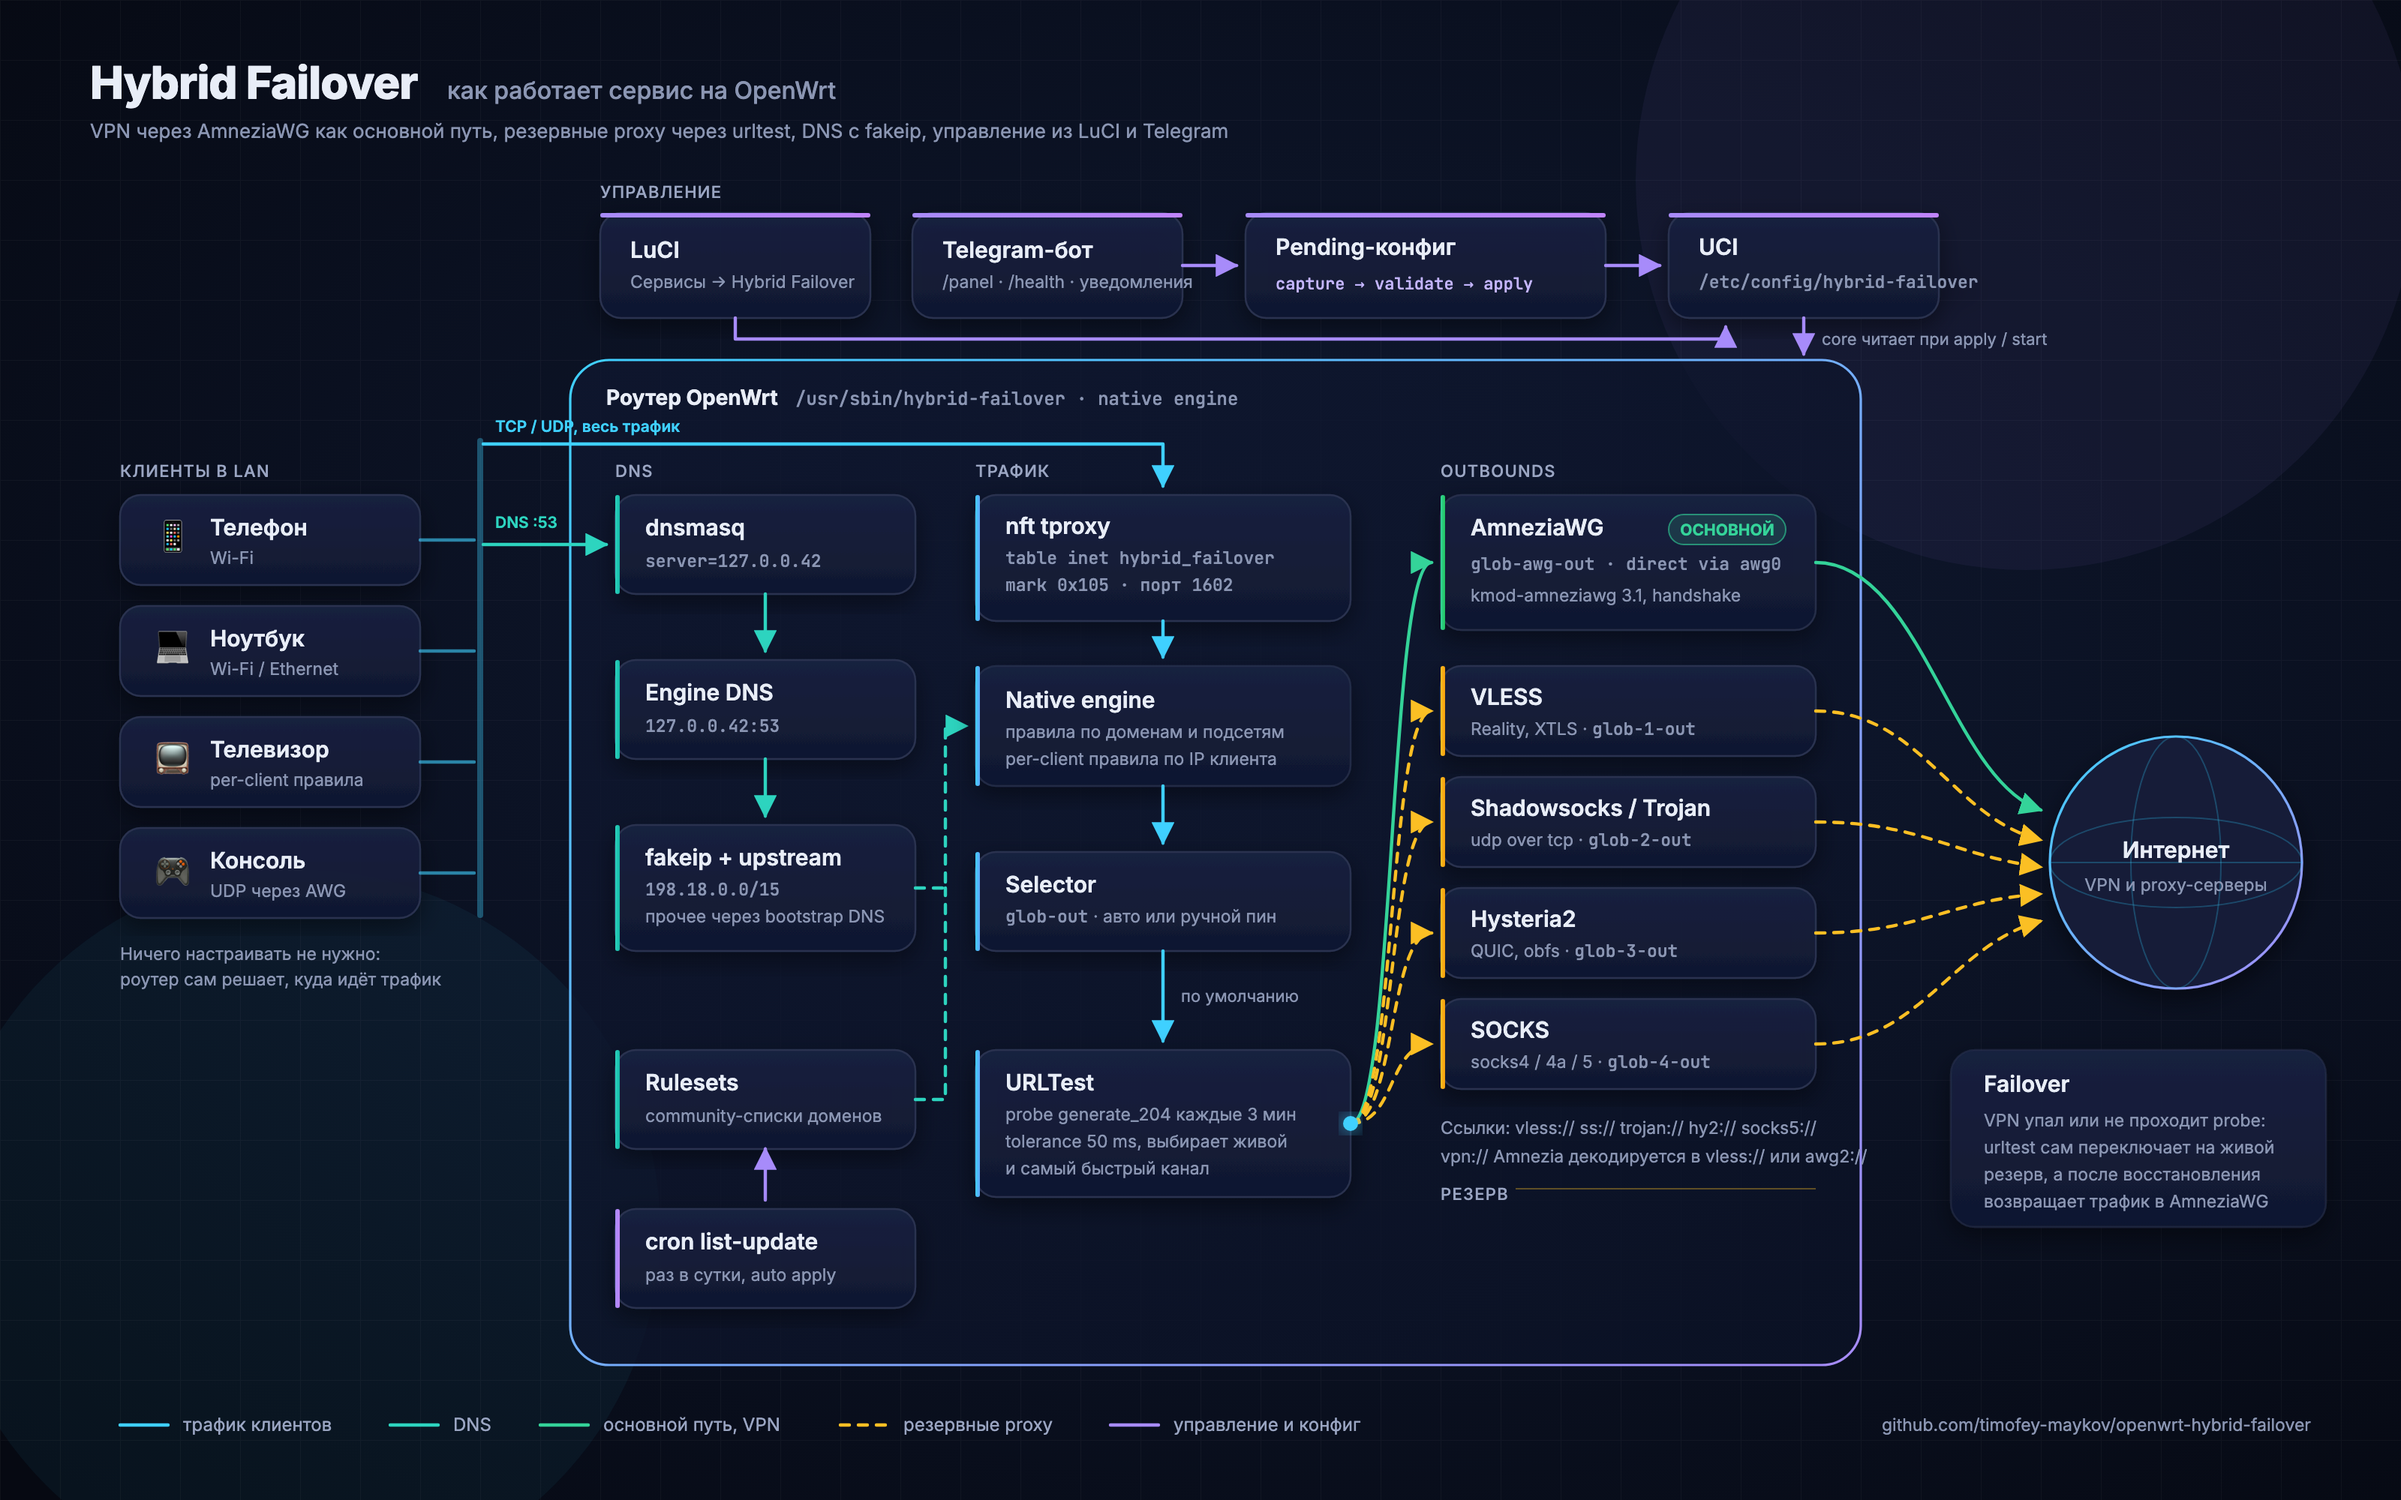
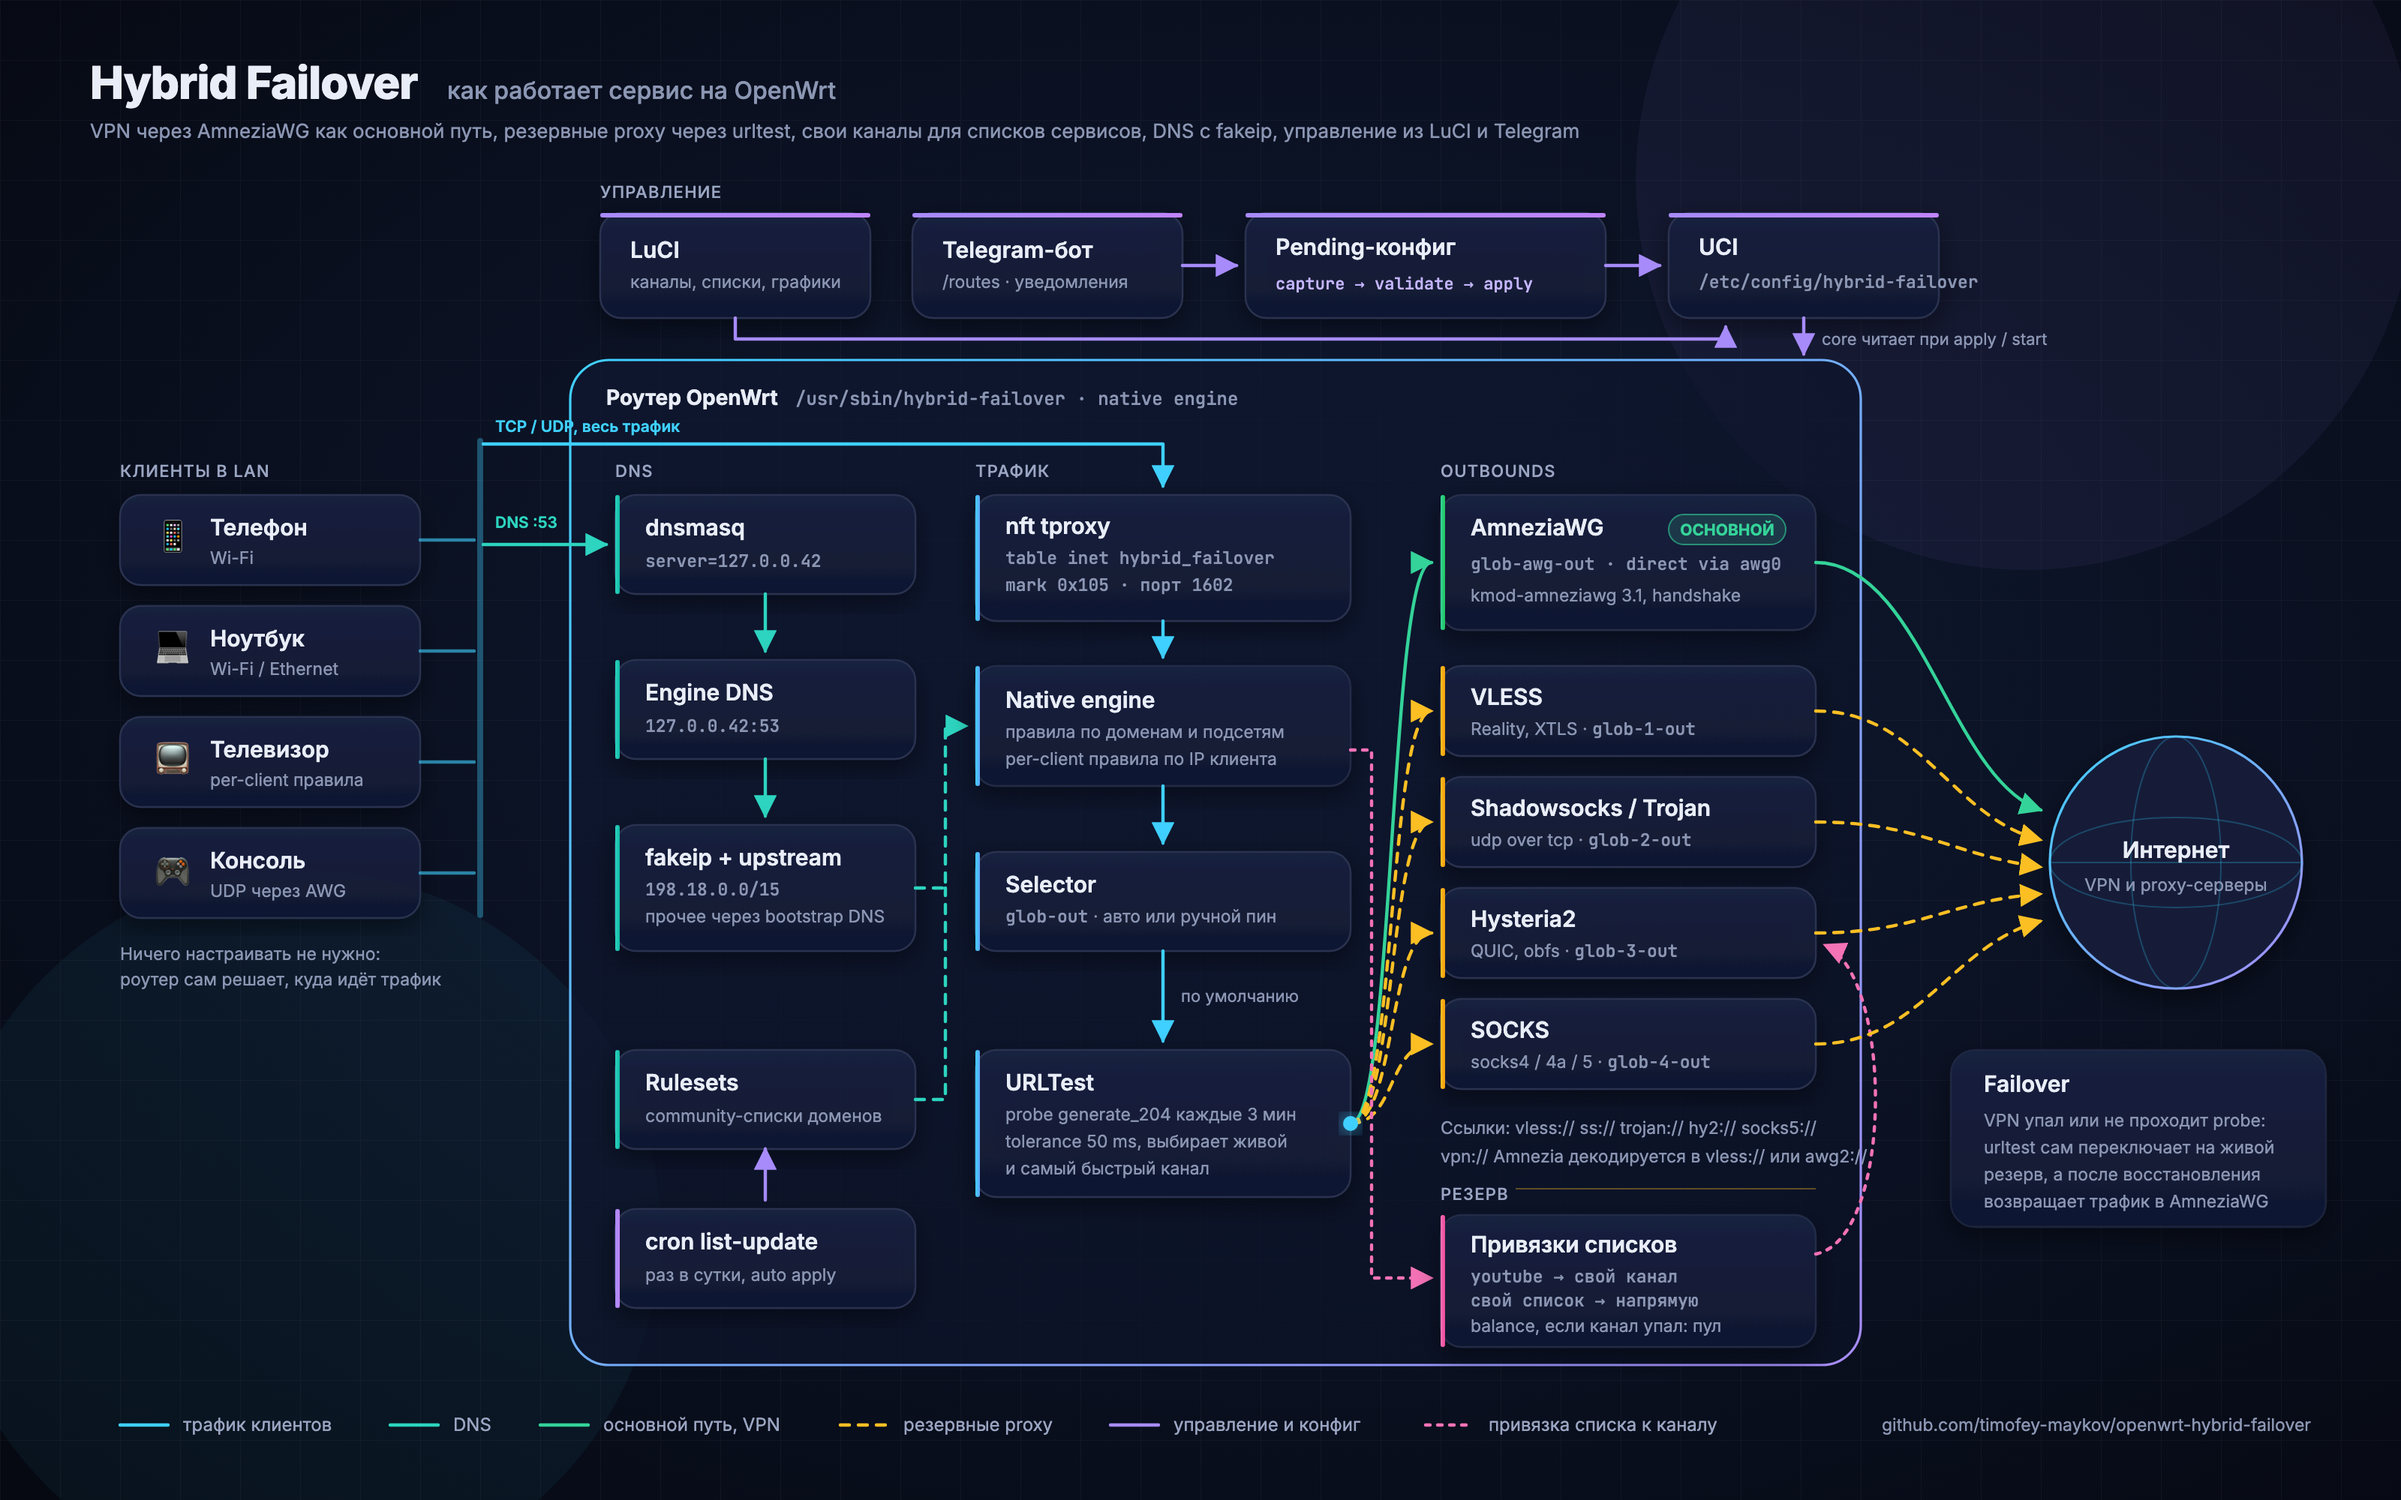
docs: list bindings on the schema
The diagram now shows the list bindings next to the outbounds, LuCI with channels, lists and charts, and /routes in the bot.

diff --git a/docs/img/hybrid-failover-schema.html b/docs/img/hybrid-failover-schema.html
@@ -21,6 +21,7 @@
   .dns{stroke:#2dd4bf;}
   .vpn{stroke:#34d399;}
   .bak{stroke:#fbbf24;}
+  .bind{stroke:#f472b6;stroke-dasharray:3 5;}
   .dash{stroke-dasharray:6 6;}
 </style>
 </head>
@@ -59,6 +60,9 @@
     <linearGradient id="teal" x1="0" y1="0" x2="1" y2="0">
       <stop offset="0" stop-color="#2dd4bf"/><stop offset="1" stop-color="#14b8a6"/>
     </linearGradient>
+    <linearGradient id="pink" x1="0" y1="0" x2="1" y2="0">
+      <stop offset="0" stop-color="#f472b6"/><stop offset="1" stop-color="#ec4899"/>
+    </linearGradient>
     <filter id="glow" x="-30%" y="-30%" width="160%" height="160%">
       <feGaussianBlur stdDeviation="6" result="b"/>
       <feMerge><feMergeNode in="b"/><feMergeNode in="SourceGraphic"/></feMerge>
@@ -70,6 +74,7 @@
     <marker id="aCtl" viewBox="0 0 10 10" refX="9" refY="5" markerWidth="7" markerHeight="7" orient="auto-start-reverse"><path d="M0 0L10 5L0 10z" fill="#a78bfa"/></marker>
     <marker id="aDns" viewBox="0 0 10 10" refX="9" refY="5" markerWidth="7" markerHeight="7" orient="auto-start-reverse"><path d="M0 0L10 5L0 10z" fill="#2dd4bf"/></marker>
     <marker id="aVpn" viewBox="0 0 10 10" refX="9" refY="5" markerWidth="7" markerHeight="7" orient="auto-start-reverse"><path d="M0 0L10 5L0 10z" fill="#34d399"/></marker>
+    <marker id="aBind" viewBox="0 0 10 10" refX="9" refY="5" markerWidth="7" markerHeight="7" orient="auto-start-reverse"><path d="M0 0L10 5L0 10z" fill="#f472b6"/></marker>
     <marker id="aBak" viewBox="0 0 10 10" refX="9" refY="5" markerWidth="7" markerHeight="7" orient="auto-start-reverse"><path d="M0 0L10 5L0 10z" fill="#fbbf24"/></marker>
     <pattern id="grid" width="40" height="40" patternUnits="userSpaceOnUse">
       <path d="M40 0H0V40" fill="none" stroke="#ffffff" stroke-opacity="0.035" stroke-width="1"/>
@@ -85,7 +90,7 @@
   <!-- title -->
   <text x="60" y="66" class="t" font-size="30" font-weight="800" letter-spacing="-0.5">Hybrid Failover</text>
   <text x="298" y="66" class="s" font-size="16" font-weight="500">как работает сервис на OpenWrt</text>
-  <text x="60" y="92" class="s" font-size="13">VPN через AmneziaWG как основной путь, резервные proxy через urltest, DNS с fakeip, управление из LuCI и Telegram</text>
+  <text x="60" y="92" class="s" font-size="13">VPN через AmneziaWG как основной путь, резервные proxy через urltest, свои каналы для списков сервисов, DNS с fakeip, управление из LuCI и Telegram</text>
 
   <!-- ===================== CONTROL PLANE ===================== -->
   <text x="400" y="132" class="lbl">Управление</text>
@@ -94,13 +99,13 @@
     <rect x="400" y="142" width="180" height="70" rx="14" class="card"/>
     <rect x="400" y="142" width="180" height="3" rx="1.5" fill="url(#violet)"/>
     <text x="420" y="172" class="cardT">LuCI</text>
-    <text x="420" y="192" class="cardS">Сервисы → Hybrid Failover</text>
+    <text x="420" y="192" class="cardS">каналы, списки, графики</text>
   </g>
   <g filter="url(#soft)">
     <rect x="608" y="142" width="180" height="70" rx="14" class="card"/>
     <rect x="608" y="142" width="180" height="3" rx="1.5" fill="url(#violet)"/>
     <text x="628" y="172" class="cardT">Telegram-бот</text>
-    <text x="628" y="192" class="cardS">/panel · /health · уведомления</text>
+    <text x="628" y="192" class="cardS">/routes · уведомления</text>
   </g>
 
   <!-- pending pill -->
@@ -265,6 +270,19 @@
   <path d="M900 749 C 930 749, 925 696, 954 696" class="flow bak dash" marker-end="url(#aBak)"/>
   <circle cx="900" cy="749" r="5" fill="#3fd0ff" filter="url(#glow)"/>
 
+
+  <!-- list bindings -->
+  <path d="M900 500 H914 V852 H954" class="flow bind" marker-end="url(#aBind)"/>
+  <g filter="url(#soft)">
+    <rect x="960" y="810" width="250" height="88" rx="14" class="card" stroke="#f472b6" stroke-opacity="0.7"/>
+    <rect x="960" y="810" width="3" height="88" rx="1.5" fill="url(#pink)"/>
+    <text x="980" y="835" class="cardT">Привязки списков</text>
+    <text x="980" y="855" class="cardS mono" font-size="11">youtube → свой канал</text>
+    <text x="980" y="871" class="cardS mono" font-size="11">свой список → напрямую</text>
+    <text x="980" y="888" class="cardS" font-size="10.5">balance, если канал упал: пул</text>
+  </g>
+  <path d="M1210 836 C 1262 826, 1262 650, 1216 630" class="flow bind" marker-end="url(#aBind)"/>
+
   <!-- ===================== LAN CLIENTS ===================== -->
   <text x="80" y="318" class="lbl">Клиенты в LAN</text>
   <g filter="url(#soft)">
@@ -338,6 +356,7 @@
     <line x1="360" y1="950" x2="392" y2="950" class="flow vpn"/><text x="402" y="954">основной путь, VPN</text>
     <line x1="560" y1="950" x2="592" y2="950" class="flow bak dash"/><text x="602" y="954">резервные proxy</text>
     <line x1="740" y1="950" x2="772" y2="950" class="flow ctl"/><text x="782" y="954">управление и конфиг</text>
+    <line x1="950" y1="950" x2="982" y2="950" class="flow bind"/><text x="992" y="954">привязка списка к каналу</text>
   </g>
   <text x="1540" y="954" class="s" font-size="11.5" text-anchor="end">github.com/timofey-maykov/openwrt-hybrid-failover</text>
 </svg>

diff --git a/docs/img/hybrid-failover-schema.en.html b/docs/img/hybrid-failover-schema.en.html
@@ -21,6 +21,7 @@
   .dns{stroke:#2dd4bf;}
   .vpn{stroke:#34d399;}
   .bak{stroke:#fbbf24;}
+  .bind{stroke:#f472b6;stroke-dasharray:3 5;}
   .dash{stroke-dasharray:6 6;}
 </style>
 </head>
@@ -59,6 +60,9 @@
     <linearGradient id="teal" x1="0" y1="0" x2="1" y2="0">
       <stop offset="0" stop-color="#2dd4bf"/><stop offset="1" stop-color="#14b8a6"/>
     </linearGradient>
+    <linearGradient id="pink" x1="0" y1="0" x2="1" y2="0">
+      <stop offset="0" stop-color="#f472b6"/><stop offset="1" stop-color="#ec4899"/>
+    </linearGradient>
     <filter id="glow" x="-30%" y="-30%" width="160%" height="160%">
       <feGaussianBlur stdDeviation="6" result="b"/>
       <feMerge><feMergeNode in="b"/><feMergeNode in="SourceGraphic"/></feMerge>
@@ -70,6 +74,7 @@
     <marker id="aCtl" viewBox="0 0 10 10" refX="9" refY="5" markerWidth="7" markerHeight="7" orient="auto-start-reverse"><path d="M0 0L10 5L0 10z" fill="#a78bfa"/></marker>
     <marker id="aDns" viewBox="0 0 10 10" refX="9" refY="5" markerWidth="7" markerHeight="7" orient="auto-start-reverse"><path d="M0 0L10 5L0 10z" fill="#2dd4bf"/></marker>
     <marker id="aVpn" viewBox="0 0 10 10" refX="9" refY="5" markerWidth="7" markerHeight="7" orient="auto-start-reverse"><path d="M0 0L10 5L0 10z" fill="#34d399"/></marker>
+    <marker id="aBind" viewBox="0 0 10 10" refX="9" refY="5" markerWidth="7" markerHeight="7" orient="auto-start-reverse"><path d="M0 0L10 5L0 10z" fill="#f472b6"/></marker>
     <marker id="aBak" viewBox="0 0 10 10" refX="9" refY="5" markerWidth="7" markerHeight="7" orient="auto-start-reverse"><path d="M0 0L10 5L0 10z" fill="#fbbf24"/></marker>
     <pattern id="grid" width="40" height="40" patternUnits="userSpaceOnUse">
       <path d="M40 0H0V40" fill="none" stroke="#ffffff" stroke-opacity="0.035" stroke-width="1"/>
@@ -85,7 +90,7 @@
   <!-- title -->
   <text x="60" y="66" class="t" font-size="30" font-weight="800" letter-spacing="-0.5">Hybrid Failover</text>
   <text x="298" y="66" class="s" font-size="16" font-weight="500">how it works on OpenWrt</text>
-  <text x="60" y="92" class="s" font-size="13">AmneziaWG VPN as the primary path, backup proxies via urltest, fakeip DNS, managed from LuCI and Telegram</text>
+  <text x="60" y="92" class="s" font-size="13">AmneziaWG VPN as the primary path, backup proxies via urltest, own channels for service lists, fakeip DNS, managed from LuCI and Telegram</text>
 
   <!-- ===================== CONTROL PLANE ===================== -->
   <text x="400" y="132" class="lbl">Management</text>
@@ -94,13 +99,13 @@
     <rect x="400" y="142" width="180" height="70" rx="14" class="card"/>
     <rect x="400" y="142" width="180" height="3" rx="1.5" fill="url(#violet)"/>
     <text x="420" y="172" class="cardT">LuCI</text>
-    <text x="420" y="192" class="cardS">Services → Hybrid Failover</text>
+    <text x="420" y="192" class="cardS">channels, lists, charts</text>
   </g>
   <g filter="url(#soft)">
     <rect x="608" y="142" width="180" height="70" rx="14" class="card"/>
     <rect x="608" y="142" width="180" height="3" rx="1.5" fill="url(#violet)"/>
     <text x="628" y="172" class="cardT">Telegram bot</text>
-    <text x="628" y="192" class="cardS">/panel · /health · alerts</text>
+    <text x="628" y="192" class="cardS">/panel · /routes · alerts</text>
   </g>
 
   <!-- pending pill -->
@@ -265,6 +270,19 @@
   <path d="M900 749 C 930 749, 925 696, 954 696" class="flow bak dash" marker-end="url(#aBak)"/>
   <circle cx="900" cy="749" r="5" fill="#3fd0ff" filter="url(#glow)"/>
 
+
+  <!-- list bindings -->
+  <path d="M900 500 H914 V852 H954" class="flow bind" marker-end="url(#aBind)"/>
+  <g filter="url(#soft)">
+    <rect x="960" y="810" width="250" height="88" rx="14" class="card" stroke="#f472b6" stroke-opacity="0.7"/>
+    <rect x="960" y="810" width="3" height="88" rx="1.5" fill="url(#pink)"/>
+    <text x="980" y="835" class="cardT">List bindings</text>
+    <text x="980" y="855" class="cardS mono" font-size="11">youtube → its own channel</text>
+    <text x="980" y="871" class="cardS mono" font-size="11">own list → direct</text>
+    <text x="980" y="888" class="cardS" font-size="10.5">balance, on_down: pool</text>
+  </g>
+  <path d="M1210 836 C 1262 826, 1262 650, 1216 630" class="flow bind" marker-end="url(#aBind)"/>
+
   <!-- ===================== LAN CLIENTS ===================== -->
   <text x="80" y="318" class="lbl">LAN clients</text>
   <g filter="url(#soft)">
@@ -338,6 +356,7 @@
     <line x1="360" y1="950" x2="392" y2="950" class="flow vpn"/><text x="402" y="954">primary path, VPN</text>
     <line x1="560" y1="950" x2="592" y2="950" class="flow bak dash"/><text x="602" y="954">backup proxies</text>
     <line x1="740" y1="950" x2="772" y2="950" class="flow ctl"/><text x="782" y="954">management and config</text>
+    <line x1="950" y1="950" x2="982" y2="950" class="flow bind"/><text x="992" y="954">list bound to a channel</text>
   </g>
   <text x="1540" y="954" class="s" font-size="11.5" text-anchor="end">github.com/timofey-maykov/openwrt-hybrid-failover</text>
 </svg>
